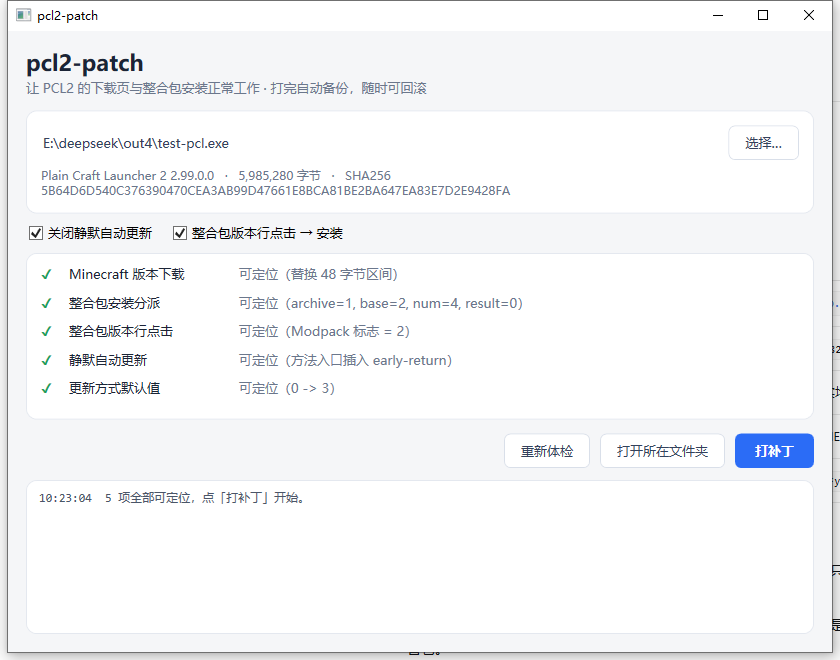
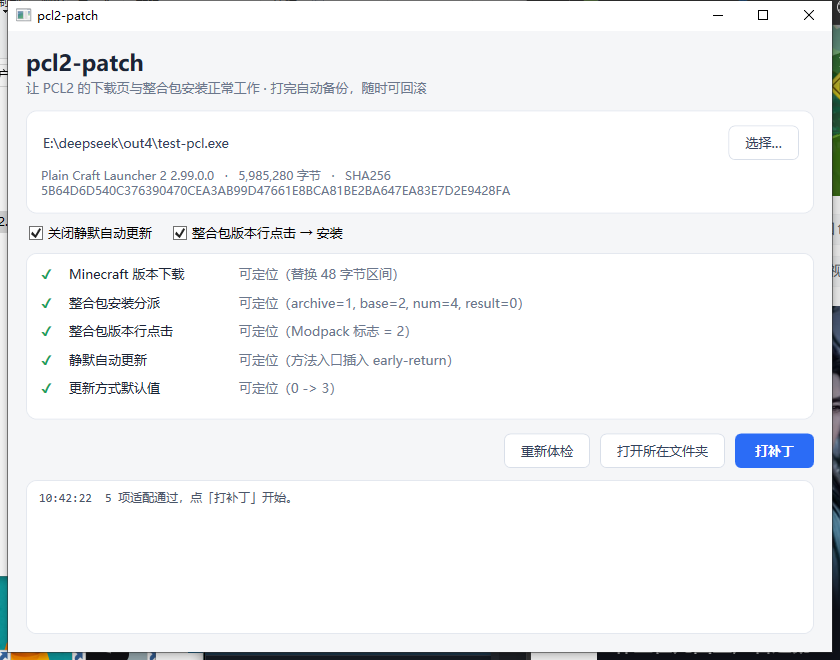
docs: 统一术语为「适配」，界面同步

diff --git a/src/Pcl2Patch.Gui/MainWindow.xaml b/src/Pcl2Patch.Gui/MainWindow.xaml
@@ -114,7 +114,7 @@
         <!-- 结果 -->
         <Border Grid.Row="3" Style="{StaticResource Card}" Margin="0,12,0,0" Padding="6">
             <Grid>
-                <TextBlock x:Name="EmptyHint" Text="拖入文件后这里会显示六项检查结果"
+                <TextBlock x:Name="EmptyHint" Text="拖入文件后这里会显示五项适配状态"
                            Foreground="#9AA6BA" HorizontalAlignment="Center" VerticalAlignment="Center" />
                 <ScrollViewer x:Name="ResultsScroll" VerticalScrollBarVisibility="Auto">
                     <ItemsControl x:Name="Results">

diff --git a/src/Pcl2Patch.Gui/MainWindow.xaml.cs b/src/Pcl2Patch.Gui/MainWindow.xaml.cs
@@ -97,8 +97,8 @@ public partial class MainWindow : Window
             var failed = outcomes.Count(x => x.State == PatchState.Failed);
             var done = outcomes.All(x => x.State is PatchState.Already or PatchState.Skipped);
             Log(done ? "该文件已处理过，无需再打补丁。" :
-                failed > 0 ? $"{failed} 项无法定位 —— 该构建可能已被官方修复，或结构有变。" :
-                $"{outcomes.Count(x => x.State == PatchState.Applied)} 项全部可定位，点「打补丁」开始。");
+                failed > 0 ? $"{failed} 项未适配 —— 本工具还没跟上这个版本。" :
+                $"{outcomes.Count(x => x.State == PatchState.Applied)} 项适配通过，点「打补丁」开始。");
         }
         catch (Exception ex)
         {
@@ -156,7 +156,7 @@ public partial class MainWindow : Window
         {
             var outcomes = await Task.Run(() => Patcher.Probe(path: _path, options));
             ShowOutcomes(outcomes);
-            Log($"体检完成：{outcomes.Count(x => x.State == PatchState.Applied)} 项可打");
+            Log($"体检完成：{outcomes.Count(x => x.State == PatchState.Applied)} 项适配通过");
         }
         catch (Exception ex)
         {

diff --git a/README.md b/README.md
@@ -45,7 +45,7 @@
 同一目录下会自动生成 `Plain Craft Launcher 2.exe.bak`，用它覆盖回去即可。
 
 **支持哪些版本？**
-目前针对 PCL2 `2.99.0.0`。其他版本也可以直接拖进去试试，界面会告诉你哪几项可用、哪几项需要更新。
+目前适配的是 PCL2 `2.99.0.0`。其他版本也可以直接拖进去，界面会逐项显示适配状态；未适配的项需要等工具跟进。
 
 **会不会改坏文件？**
 不会。工具先复制副本再操作，写入前后各检查一次，中途失败不会动原文件。
@@ -62,7 +62,7 @@ dotnet build pcl2-patch.sln -c Release
 
 ## 更多
 
-实现细节、补丁清单、以及「PCL 更新后如何适配」见 [docs/TECHNICAL.md](docs/TECHNICAL.md)。
+实现细节、补丁清单，以及「PCL 出新版本后怎么做适配」见 [docs/TECHNICAL.md](docs/TECHNICAL.md)。
 
 ## 许可
 

diff --git a/docs/TECHNICAL.md b/docs/TECHNICAL.md
@@ -48,13 +48,13 @@ pcl2-patch/
 
 ## 适配新版本
 
-PCL 更新后，界面上失配的那一项会直接说明原因，例如：
+PCL 每发一个新版本，都要做一次**适配**：确认五个补丁还能定位到对应代码，必要时调整锚点。界面上失配的那一项会直接说明原因，例如：
 
 ```
 [!] Minecraft 版本下载   PageLoaderInit 前找不到 LoaderTask<,> 构造
 ```
 
-这时只需要改 `src/Pcl2Patch.Core/Patches.cs` 里对应的那个 `static PatchOutcome Xxx(...)`：
+适配时只需要改 `src/Pcl2Patch.Core/Patches.cs` 里对应的那个 `static PatchOutcome Xxx(...)`：
 
 1. 用 dnSpy / ILSpy 打开新版 PCL，看同类方法的结构；
 2. 调整定位条件（通常只是换一个锚点指令或调用）；
